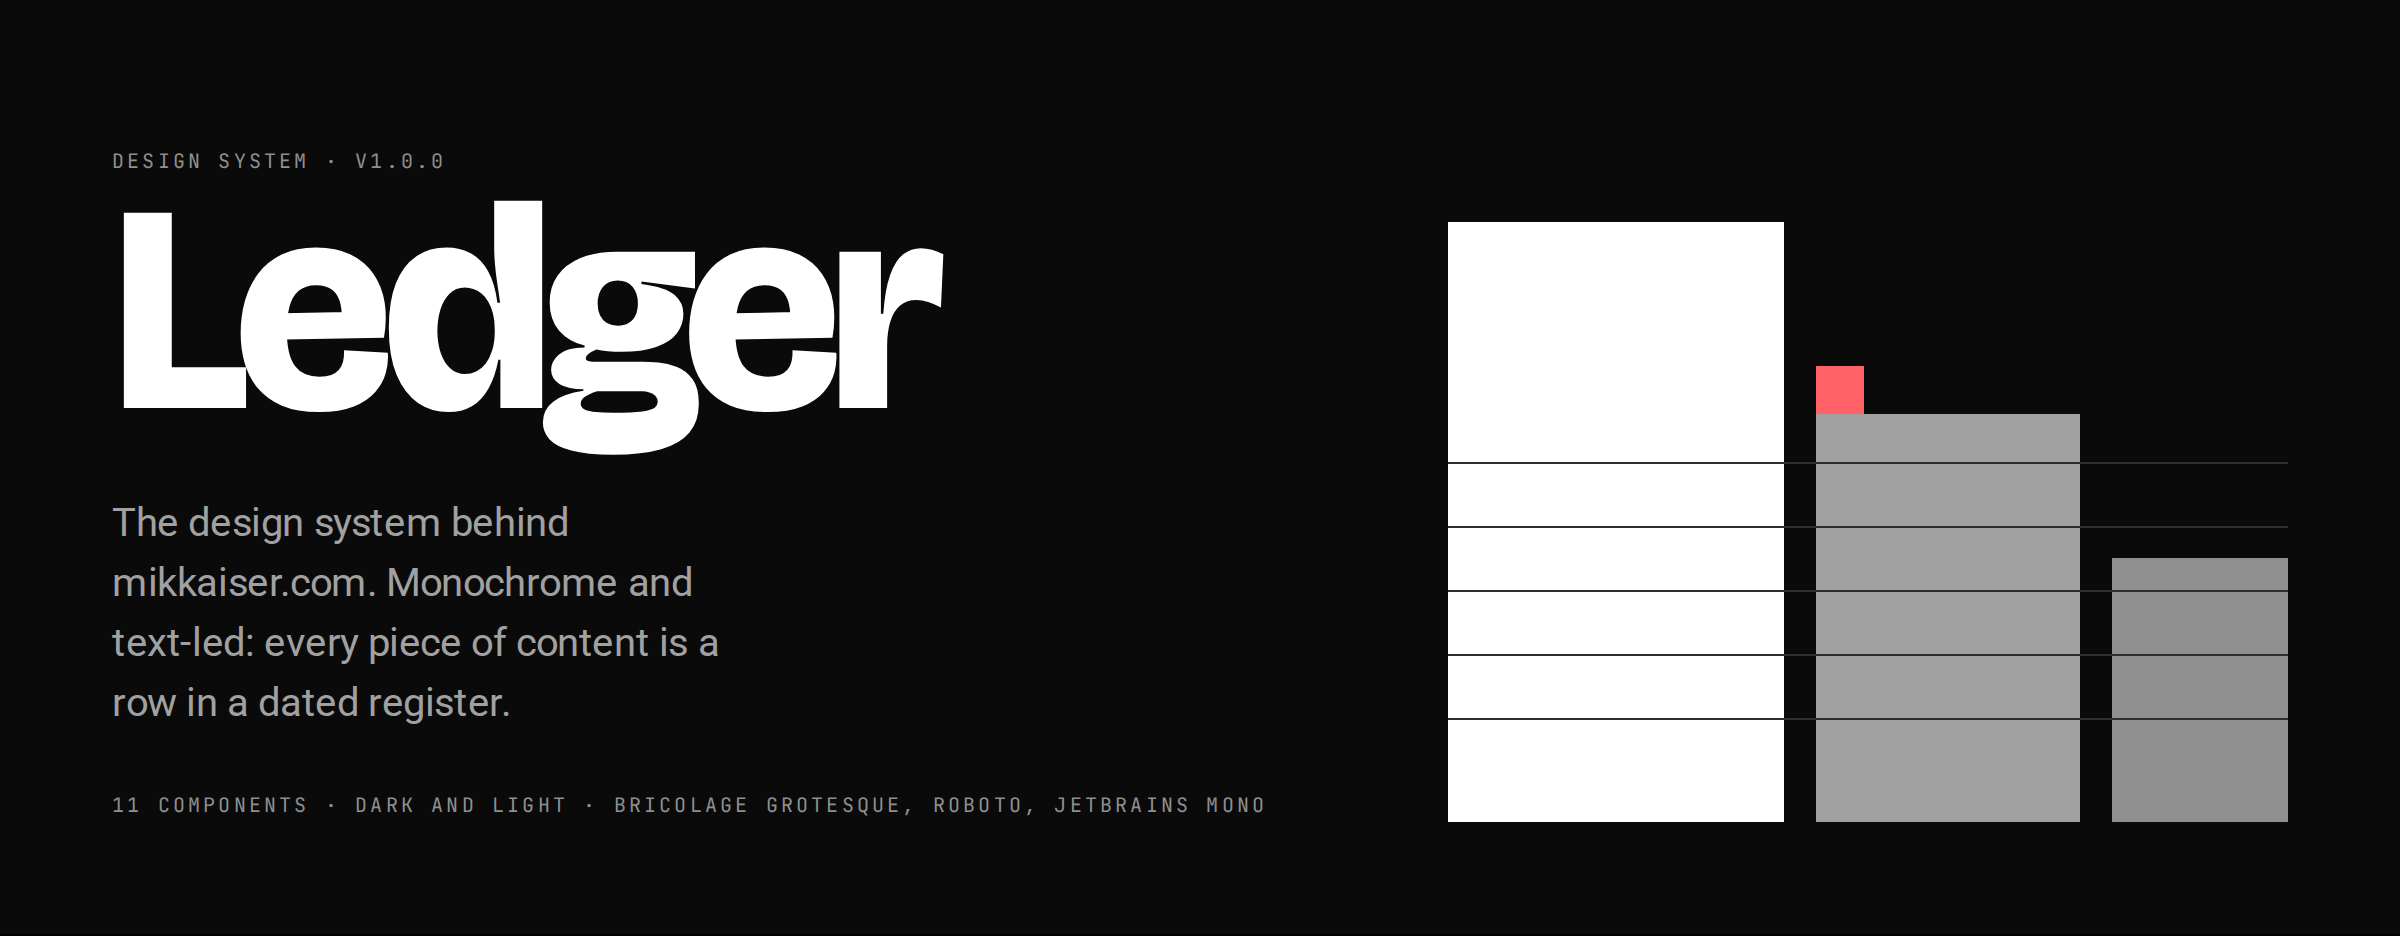
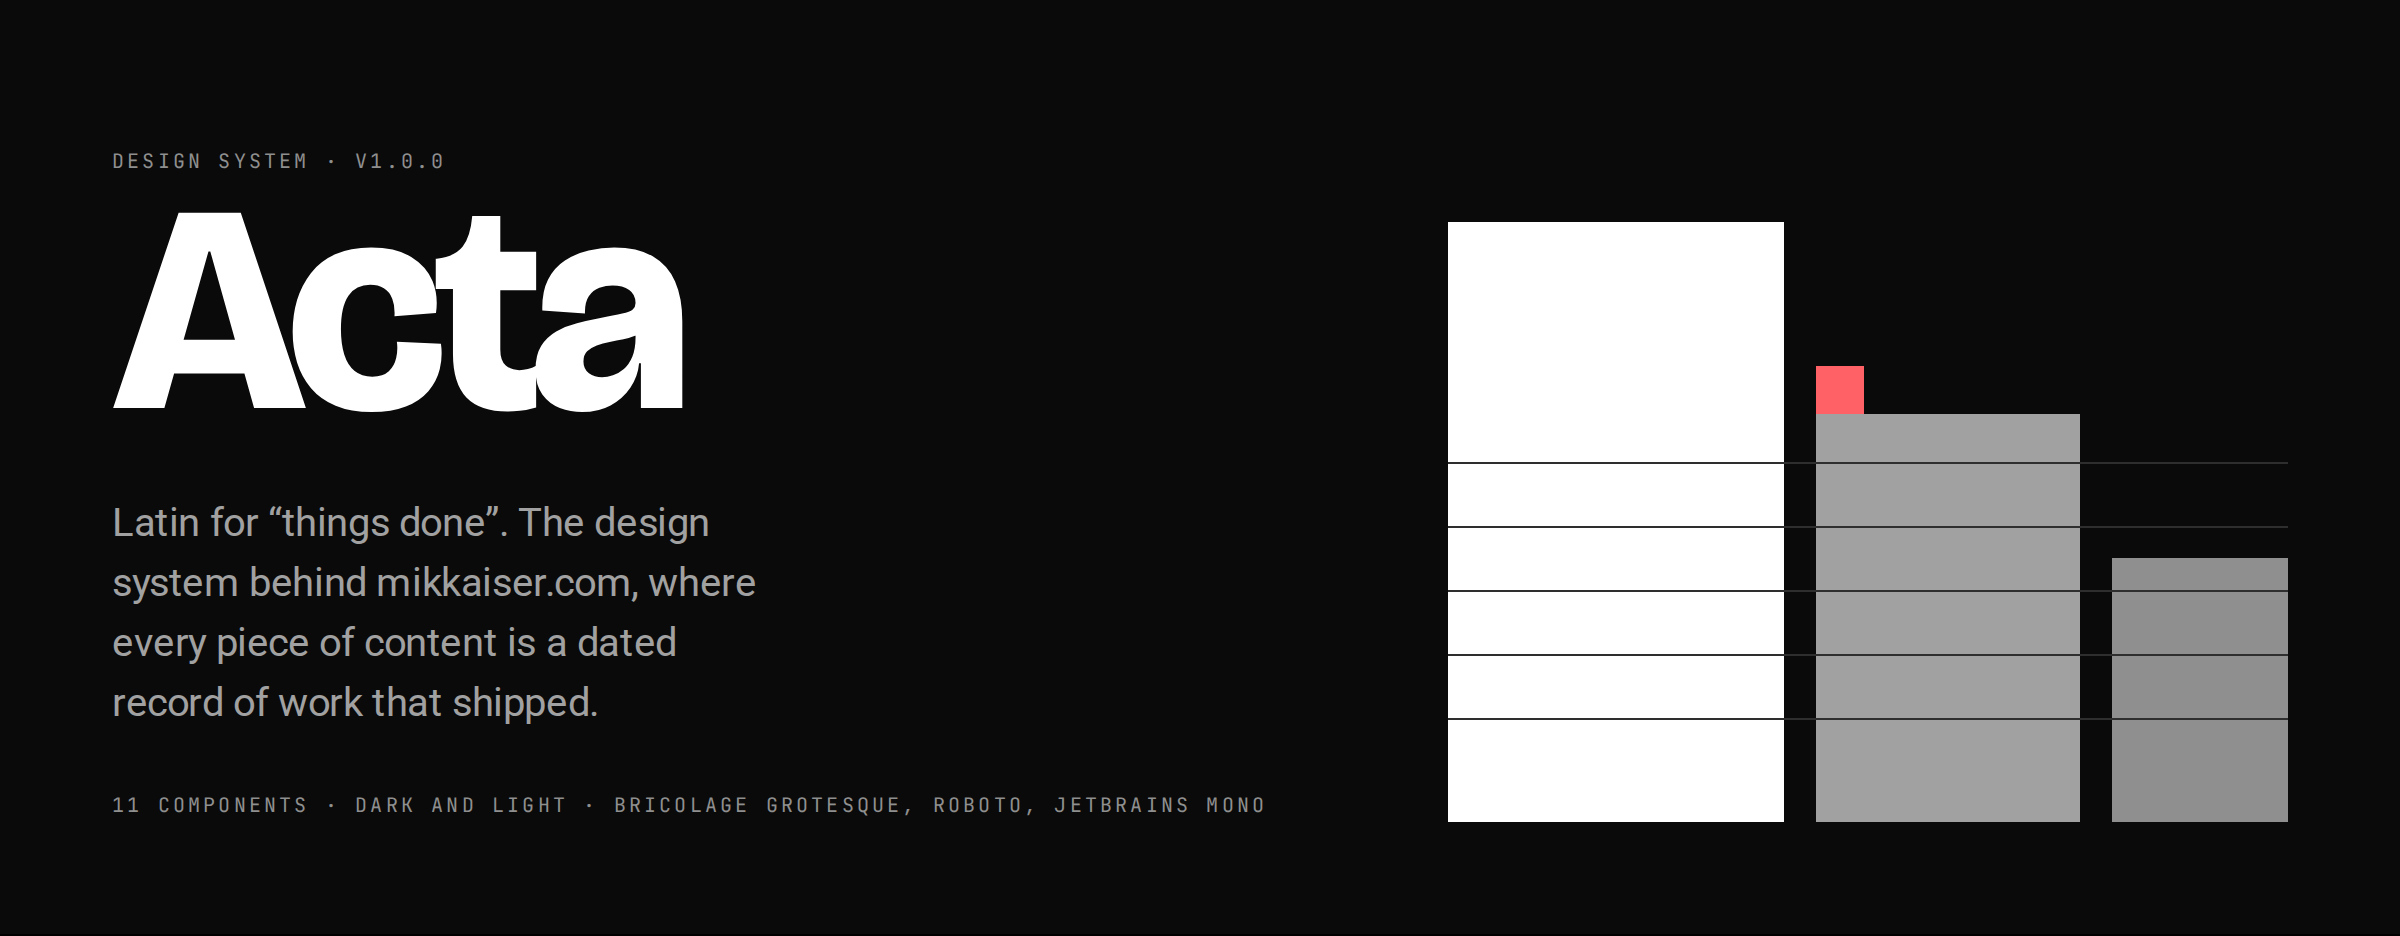
Rename the design system from Ledger to Acta
Acta, Latin for "things done", after Rome's acta diurna. The bundle
global is now window.Acta, the agent skill is acta-design, and the brand
book, conventions, notes, README, cover and foundations pages use the
new name.

Changed region(s): [[0.0312, 0.2169, 0.4062, 0.4957], [0.0312, 0.5267, 0.3125, 0.7126], [0.0625, 0.7436, 0.25, 0.7746]]

diff --git a/index.html b/index.html
@@ -3,7 +3,7 @@
 <head>
 <meta charset="utf-8" />
 <meta name="viewport" content="width=device-width, initial-scale=1" />
-<title>Ledger Design System</title>
+<title>Acta Design System</title>
 <link rel="stylesheet" href="styles.css" />
 <style>
   [data-shell] { display: grid; grid-template-columns: var(--rail-width) minmax(0, 1fr); align-items: start; min-height: 100vh; }
@@ -72,7 +72,7 @@
   <main>
 
     <section style="margin-bottom:var(--gap-section)" data-reveal="data-reveal">
-      <div style="font-family:var(--font-mono);font-size:10px;letter-spacing:0.16em;text-transform:uppercase;color:var(--faint);margin-bottom:14px">Ledger · Design system</div>
+      <div style="font-family:var(--font-mono);font-size:10px;letter-spacing:0.16em;text-transform:uppercase;color:var(--faint);margin-bottom:14px">Acta · Design system</div>
       <h1 style="margin:0 0 18px;font-family:var(--font-title);font-weight:600;font-size:clamp(32px,5.6vw,60px);line-height:1.04;letter-spacing:-0.035em;max-width:var(--measure-display)">The parts this site is built from.</h1>
       <p style="margin:0 0 var(--space-4);font-size:var(--size-body);line-height:var(--lh-body);color:var(--ink-soft);max-width:var(--measure-body)">Every token, type step and component state used across the portfolio and the blog. Poppins for names and titles, Roboto for everything you scan, JetBrains Mono for anything countable. Monochrome throughout: no hue carries meaning, so hierarchy comes from weight, size and a single background step. Dark is the default; every token has a light counterpart and the rail switches between them.</p>
     </section>
@@ -325,7 +325,7 @@
         </a>
         <a href="SKILL.md" style="display:grid;grid-template-columns:repeat(auto-fit,minmax(min(100%,220px),1fr));gap:var(--space-6);padding:var(--pad-row) var(--pad-row-inline);border-bottom:1px solid var(--rule);transition:background var(--dur-pointer) var(--ease)" onmouseover="this.style.background='var(--raised)'" onmouseout="this.style.background='transparent'">
           <span style="font-family:var(--font-mono);font-size:12px;color:var(--ink);word-break:break-all">SKILL.md</span>
-          <span style="font-size:12px;line-height:1.5;color:var(--muted)">Agent Skill front matter. Drop this folder into Claude Code and it registers as ledger-design.</span>
+          <span style="font-size:12px;line-height:1.5;color:var(--muted)">Agent Skill front matter. Drop this folder into Claude Code and it registers as acta-design.</span>
         </a>
       </div>
     </section>
@@ -344,7 +344,7 @@
 
     <footer style="display:flex;justify-content:space-between;gap:var(--space-4);flex-wrap:wrap;padding-top:var(--space-4);border-top:1px solid var(--ink)">
       <a href="mailto:mikaelrsimoes19@gmail.com" style="font-size:13px;font-weight:500">mikaelrsimoes19@gmail.com</a>
-      <span style="font-family:var(--font-mono);font-size:11px;color:var(--faint);letter-spacing:0.04em;text-transform:uppercase">Ledger v0.3 · No UI kit yet</span>
+      <span style="font-family:var(--font-mono);font-size:11px;color:var(--faint);letter-spacing:0.04em;text-transform:uppercase">Acta v1.0 · No UI kit yet</span>
     </footer>
 
   </main>

diff --git a/foundations.dc.html b/foundations.dc.html
@@ -122,7 +122,7 @@
   <main style="padding:clamp(24px,3.5vw,44px);min-width:0">
 
     <section style="margin-bottom:clamp(40px,6vw,72px)" data-reveal="data-reveal">
-      <div style="font-family:'JetBrains Mono',monospace;font-size:10px;letter-spacing:0.18em;text-transform:uppercase;color:var(--faint);margin-bottom:14px">Ledger · Design system</div>
+      <div style="font-family:'JetBrains Mono',monospace;font-size:10px;letter-spacing:0.18em;text-transform:uppercase;color:var(--faint);margin-bottom:14px">Acta · Design system</div>
       <h1 style="margin:0 0 18px;font-family:'Poppins',sans-serif;font-weight:600;font-size:clamp(32px,5.6vw,60px);line-height:1.04;letter-spacing:-0.035em;max-width:22ch">The parts this site is built from.</h1>
       <p style="margin:0;font-size:15px;line-height:1.7;color:var(--ink-soft);max-width:64ch">Every token, type step and component state used across the portfolio and the blog. Poppins for names and titles, Roboto for everything you scan, JetBrains Mono for anything countable. Monochrome throughout: no hue carries meaning, so hierarchy comes from weight, size and a single background step. Dark is the default; every token has a light counterpart and the rail switches between them.</p>
     </section>
@@ -838,7 +838,7 @@
 
     <footer style="display:flex;justify-content:space-between;gap:16px;flex-wrap:wrap;padding-top:16px;border-top:1px solid var(--ink)">
       <a href="#" style="font-size:13px;font-weight:500" style-hover="color:var(--muted)">mikaelrsimoes19@gmail.com</a>
-      <span style="font-family:'JetBrains Mono',monospace;font-size:11px;color:var(--faint);letter-spacing:0.08em;text-transform:uppercase">Ledger v0.3 · Mikael Ribeiro</span>
+      <span style="font-family:'JetBrains Mono',monospace;font-size:11px;color:var(--faint);letter-spacing:0.08em;text-transform:uppercase">Acta v1.0 · Mikael Ribeiro</span>
     </footer>
 
   </main>

diff --git a/.github/readme-images/shots.html b/.github/readme-images/shots.html
@@ -2,7 +2,7 @@
 <html lang="en">
 <head>
 <meta charset="utf-8">
-<title>Ledger README images</title>
+<title>Acta README images</title>
 <!-- Rendered by render.mjs. Needs a design-sync build in ../../ds-bundle. -->
 <link rel="stylesheet" href="../../ds-bundle/styles.css">
 <style>
@@ -53,8 +53,8 @@
 <section class="shot" id="cover">
   <div>
     <div class="mono">Design system · v1.0.0</div>
-    <h1 class="name">Ledger</h1>
-    <p class="lead">The design system behind mikkaiser.com. Monochrome and text-led: every piece of content is a row in a dated register.</p>
+    <h1 class="name">Acta</h1>
+    <p class="lead">Latin for &ldquo;things done&rdquo;. The design system behind mikkaiser.com, where every piece of content is a dated record of work that shipped.</p>
     <div class="mono">11 components · dark and light · Bricolage Grotesque, Roboto, JetBrains Mono</div>
   </div>
   <svg viewBox="0 0 420 300" width="420" height="300" aria-hidden="true">
@@ -129,7 +129,7 @@
 <script src="../../ds-bundle/_vendor/react-dom.js"></script>
 <script src="../../ds-bundle/_ds_bundle.js"></script>
 <script>
-  var L = window.Ledger, h = React.createElement;
+  var L = window.Acta, h = React.createElement;
   function mount(id, el) { ReactDOM.createRoot(document.getElementById(id)).render(el); }
 
   var TOKENS = [

diff --git a/.design-sync/previews/ground.ts b/.design-sync/previews/ground.ts
@@ -1,4 +1,4 @@
-// Shared preview scaffolding. Ledger is dark by default (tokens live on :root)
+// Shared preview scaffolding. Acta is dark by default (tokens live on :root)
 // and the light theme is a page-level switch ([data-theme="light"] anywhere
 // flips :root), so every cell sits on the system's own --bg rather than the
 // card page's white body.

diff --git a/.github/README.md b/.github/README.md
@@ -1,8 +1,8 @@
-<img src="images/cover.png" alt="Ledger: the design system behind mikkaiser.com" width="100%">
+<img src="images/cover.png" alt="Acta: the design system behind mikkaiser.com" width="100%">
 
-# Ledger
+# Acta
 
-**Ledger** is the design system behind [mikkaiser.com](https://mikkaiser.com), the portfolio and blog of Mikael Ribeiro (Mikkaiser), a senior software developer in Abu Dhabi. It is monochrome and text-led. Every piece of content is a row in a dated register, and a sticky rail carries the name, the map and the contact.
+**Acta** is the design system behind [mikkaiser.com](https://mikkaiser.com), the portfolio and blog of Mikael Ribeiro (Mikkaiser), a senior software developer in Abu Dhabi. The name is Latin for "things done", after the *acta diurna*, Rome's daily public record of what actually happened. It is monochrome and text-led: every piece of content is a dated record of work that shipped, and a sticky rail carries the name, the map and the contact.
 
 It ships as 11 React components styled entirely with CSS custom properties: no provider, no theme object, no class vocabulary. The same system is synced to Claude Design, so the design agent there builds with these exact components.
 
@@ -48,7 +48,7 @@ Strictly monochrome: ten neutrals and one signal. Hierarchy comes from weight, s
 
 ## Photography
 
-Photography is the one place Ledger meets colour, so the treatment depends on the job the image does.
+Photography is the one place Acta meets colour, so the treatment depends on the job the image does.
 
 <img src="images/photos.jpg" alt="Photography tiers: grayscale avatar, full-colour framed evidence figure, grayscale mood image" width="100%">
 

diff --git a/.design-sync/NOTES.md b/.design-sync/NOTES.md
@@ -1,4 +1,4 @@
-# design-sync notes: Ledger
+# design-sync notes: Acta
 
 Repo-specific facts a re-sync needs. Config lives in `config.json`; this file holds what config can't express.
 
@@ -18,7 +18,7 @@ The 15 `guidelines/*.html` foundation cards (`@dsCard` headers, link `../styles.
 
 ## Previews
 
-- `.design-sync/previews/ground.ts` wraps every cell in a `var(--bg)` block because the card page paints a white body and Ledger is dark by default. Keep using `<Ground>` in any new preview.
+- `.design-sync/previews/ground.ts` wraps every cell in a `var(--bg)` block because the card page paints a white body and Acta is dark by default. Keep using `<Ground>` in any new preview.
 - Light theme is page-level (`:root:has([data-theme="light"])`). A single light cell flips the whole card page, so previews carry NO light-theme cells. Don't add them back.
 - `.design-sync/previews/assets/*.jpg` are 640px copies of `assets/*.jpg` (the originals are 2-7 MB). They were downsampled with headless Chromium (`canvas.toDataURL`) because no image tool is installed. Re-run that if the source photos change.
 - All four photos are portraits of the owner (including `desert-dusk.jpg`). Never crop them to 16:9 in a preview; the system forbids it.

diff --git a/.design-sync/conventions.md b/.design-sync/conventions.md
@@ -1,6 +1,6 @@
-# Building with Ledger
+# Building with Acta
 
-Ledger is the monochrome, text-led design system behind Mikael Ribeiro's portfolio and blog. Every component is a plain React function on `window.Ledger`; there is no provider, no theme object and no CSS class vocabulary. Styling is done entirely with the CSS custom properties below, applied as inline styles.
+Acta is the monochrome, text-led design system behind Mikael Ribeiro's portfolio and blog. Every component is a plain React function on `window.Acta`; there is no provider, no theme object and no CSS class vocabulary. Styling is done entirely with the CSS custom properties below, applied as inline styles.
 
 ## Setup
 
@@ -33,7 +33,7 @@ Read `_ds_bundle.css` for every token value and the base rules, `guidelines/read
 ## Idiomatic page fragment
 
 ```jsx
-const { SectionHead, EntryRow, Button } = window.Ledger;
+const { SectionHead, EntryRow, Button } = window.Acta;
 
 <main style={{ background: 'var(--bg)', color: 'var(--ink)', fontFamily: 'var(--font-body)', padding: 'var(--space-8)' }}>
   <SectionHead label="Selected work" meta="Four of eleven" />

diff --git a/readme.md b/readme.md
@@ -1,8 +1,8 @@
-# Ledger Design System
+# Acta Design System
 
 The design system behind the personal portfolio and integrated blog of **Mikael Ribeiro Simoes** (mikkaiser), Senior Software Developer at Abu Dhabi Government / ADVETI. Brazilian, based in Abu Dhabi. WorldSkills experience. Blog at [techknowledge.blog](https://techknowledge.blog).
 
-Internally the system is called **Ledger**, after its organising idea: every piece of content is a row in a dated register, and a sticky rail carries the name, the map and the contact.
+The system is called **Acta**, Latin for "things done". Rome posted the *acta diurna*, a daily public record of what had actually happened, and that is the organising idea here: every piece of content is a dated record of work that shipped, set as a row in a register, and a sticky rail carries the name, the map and the contact. It is also the voice rule in one word: show what was done, never what could be done.
 
 ## Sources
 

diff --git a/SKILL.md b/SKILL.md
@@ -1,6 +1,6 @@
 ---
-name: ledger-design
-description: Use this skill to generate well-branded interfaces and assets for Mikael Ribeiro's portfolio and blog (Ledger design system), either for production or throwaway prototypes/mocks/etc. Contains essential design guidelines, colors, type, fonts, assets, and UI kit components for protoyping.
+name: acta-design
+description: Use this skill to generate well-branded interfaces and assets for Mikael Ribeiro's portfolio and blog (Acta design system), either for production or throwaway prototypes/mocks/etc. Contains essential design guidelines, colors, type, fonts, assets, and UI kit components for protoyping.
 user-invocable: true
 ---
 
